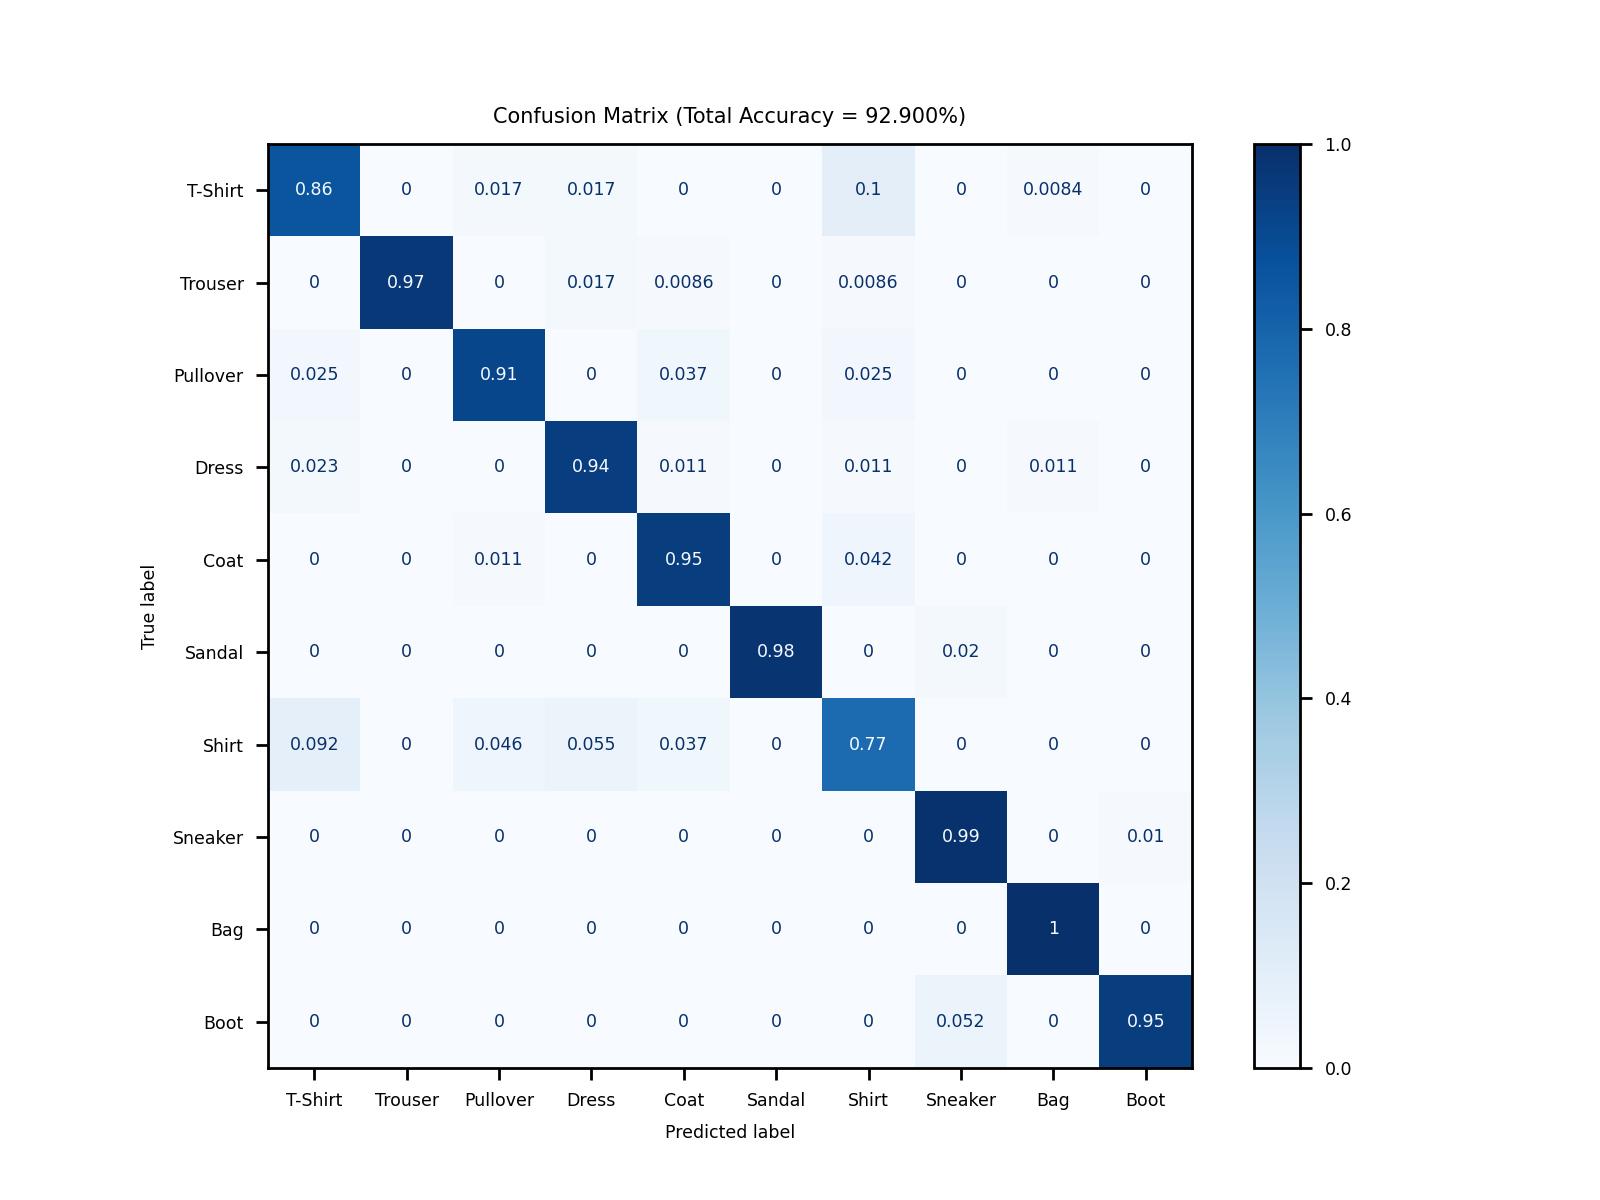
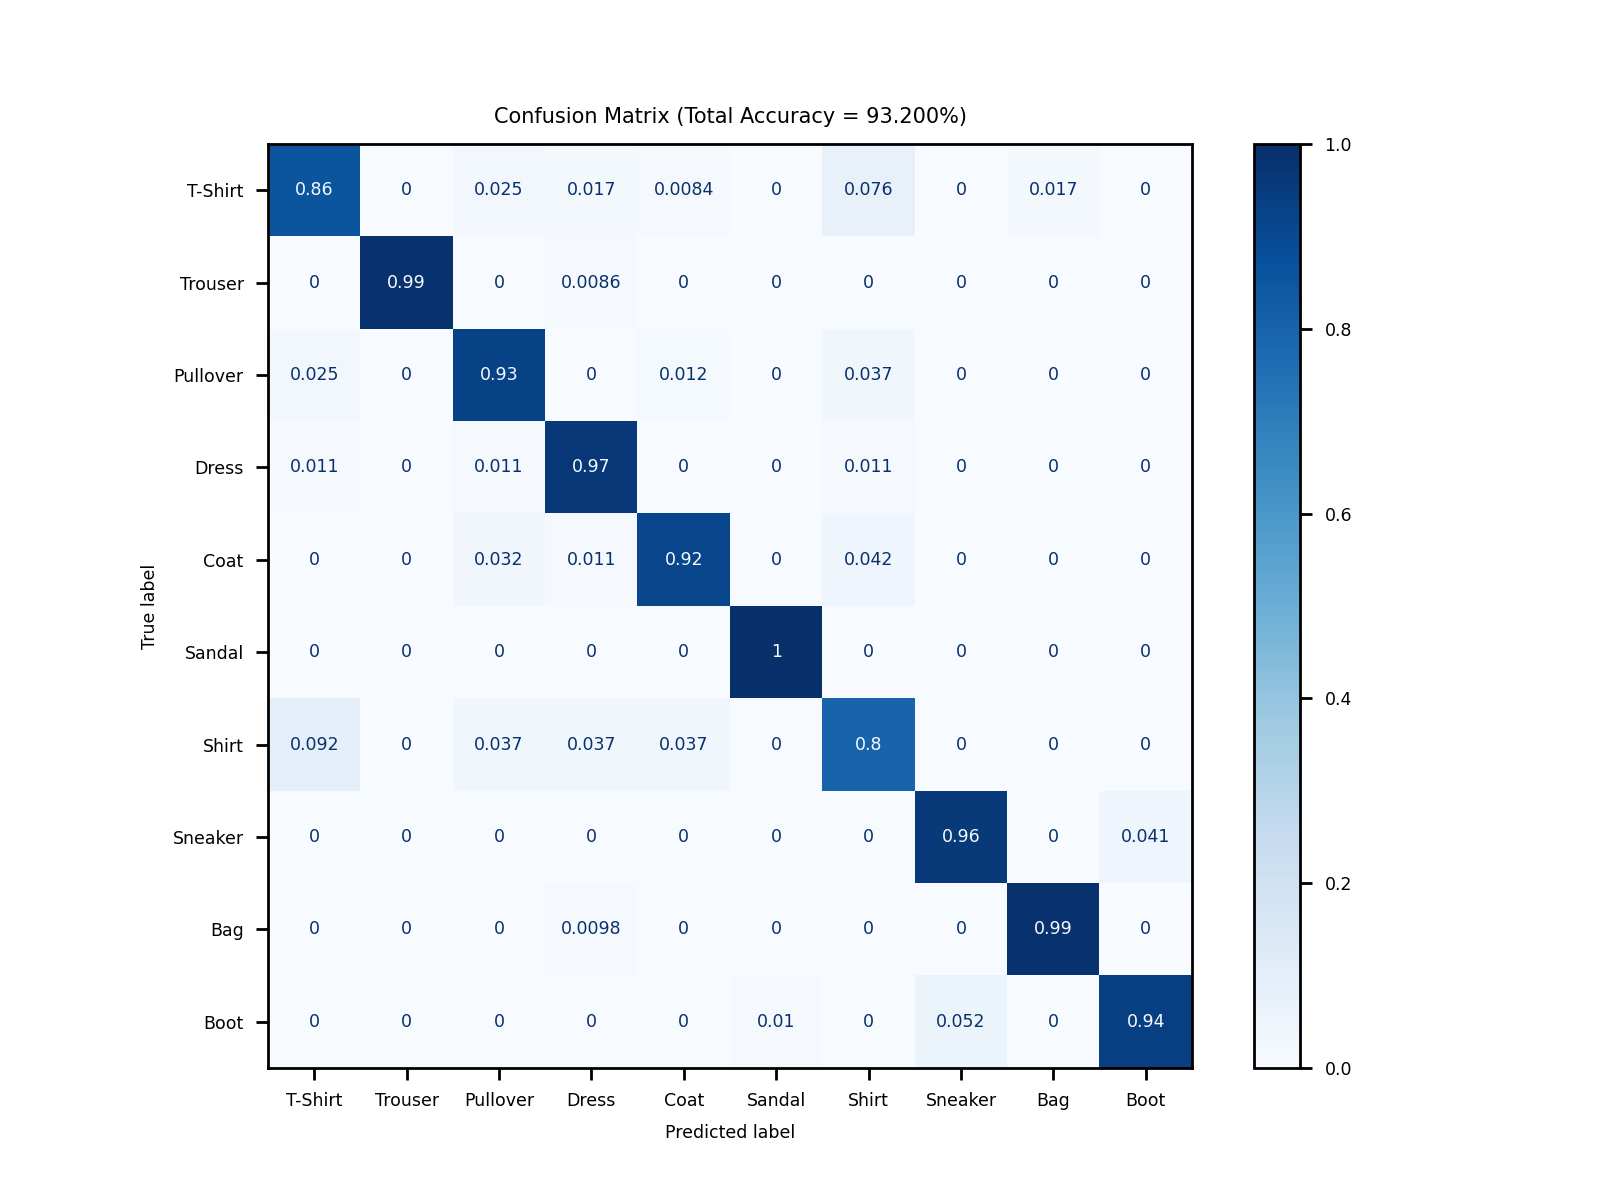
Some changes to optimizer to improve performance

diff --git a/Classifiers.py b/Classifiers.py
@@ -22,14 +22,15 @@ class MNISTClassifier(pl.LightningModule):
         return x
 
     def configure_optimizers(self):
-        # return optim.Adam(self.parameters(), lr=0.001) # use for ReddyNet
+        # return torch.optim.Adam(self.parameters(), lr=0.001) # use for ReddyNet
+        # return torch.optim.Adadelta(self.parameters())
 
         optimizer = torch.optim.SGD(self.parameters(), lr=0.1,
                                     momentum=0.9,
                                     weight_decay=1e-4)
 
         lr_scheduler = torch.optim.lr_scheduler.MultiStepLR(optimizer,
-                                                            milestones=[15, 30], last_epoch=0 - 1)
+                                                            milestones=[15, 20], last_epoch=0 - 1)
         return [optimizer], [lr_scheduler]
 
     def training_step(self, batch, batch_idx):

diff --git a/FashionMNIST_train_test.py b/FashionMNIST_train_test.py
@@ -16,7 +16,7 @@ from utils import plot_results
 
 # Configuration
 batch_size = 128
-num_epochs = 10
+num_epochs = 25
 momentum = 0.9
 learning_rate = 0.001
 val_split = 0.1  # proportion of training data to use for validation
